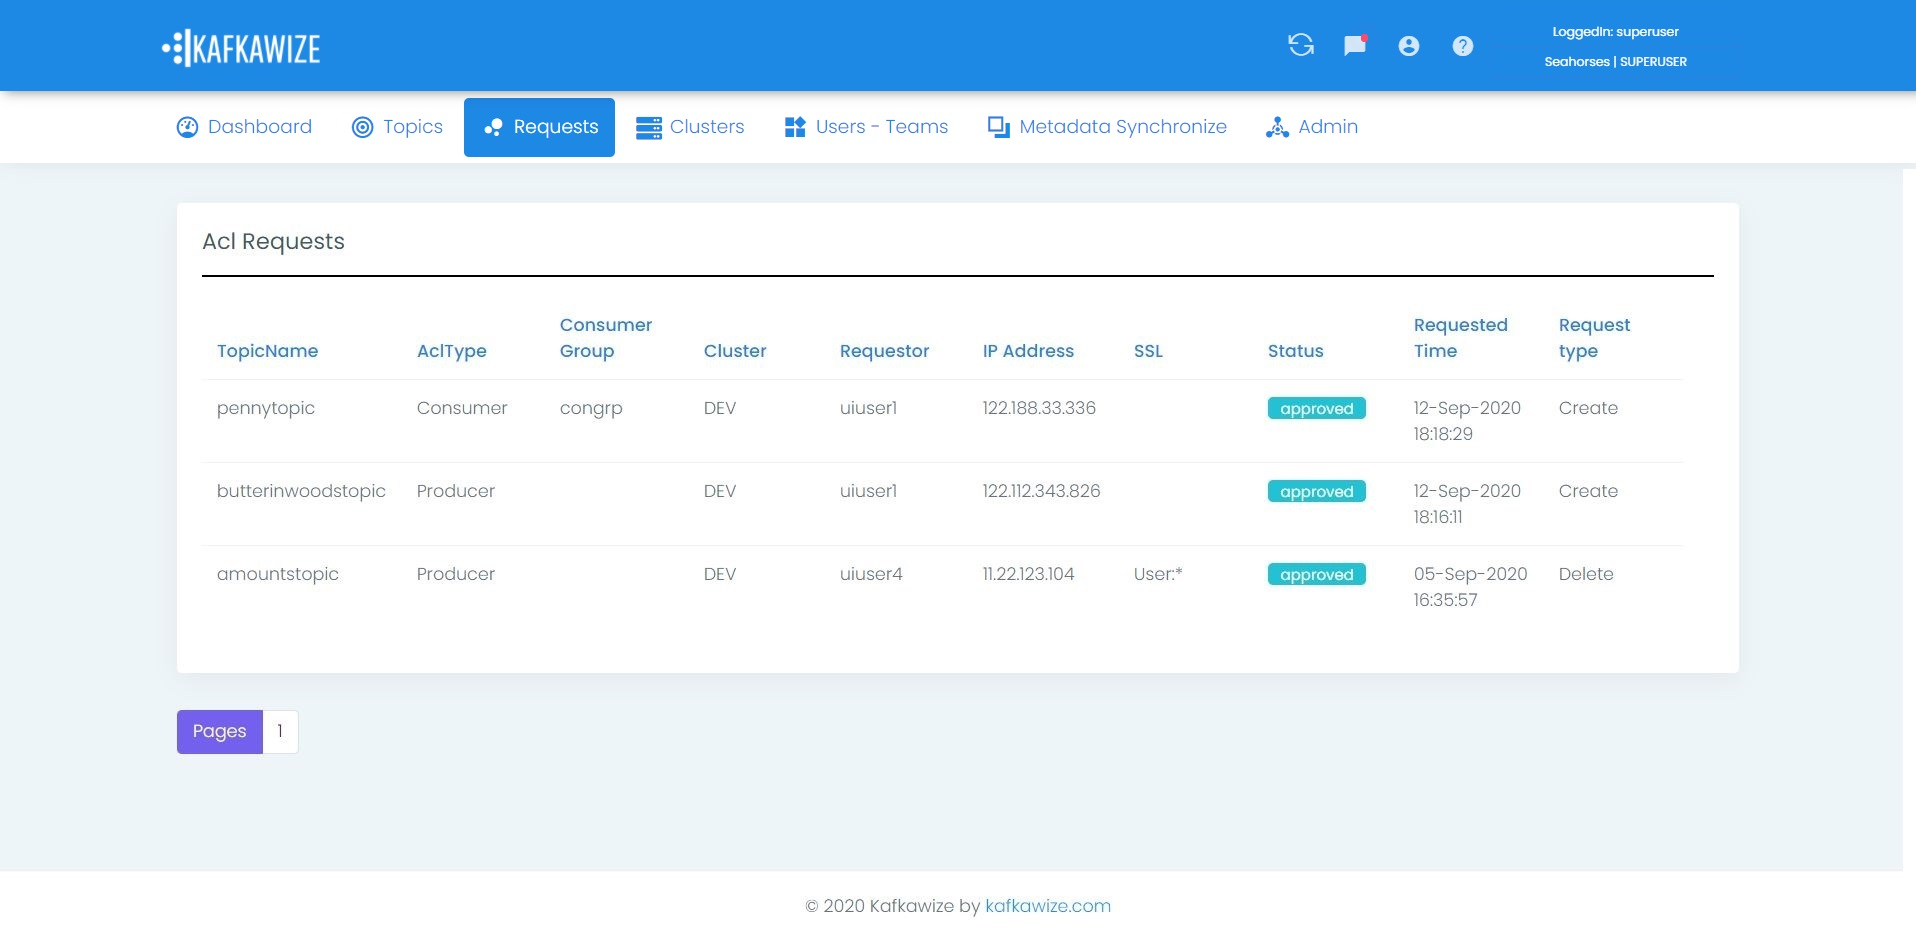
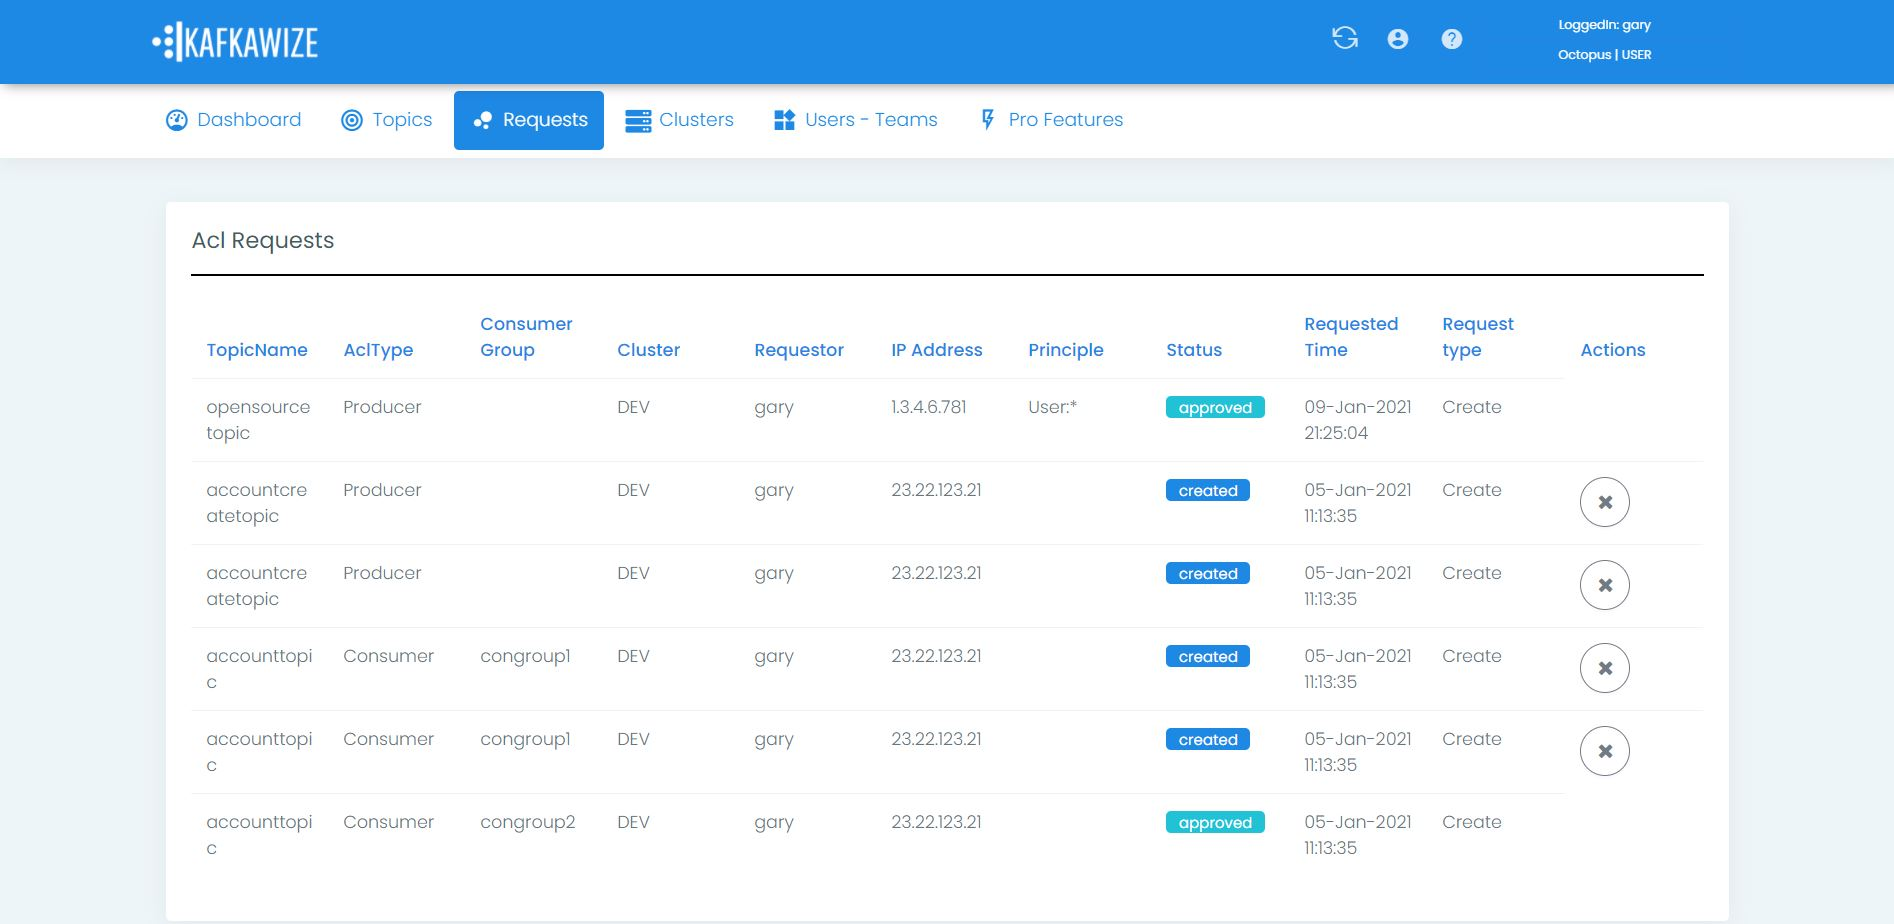
Updating actions in UI for couple of screens

diff --git a/src/main/resources/templates/myAclRequests.html b/src/main/resources/templates/myAclRequests.html
@@ -388,18 +388,18 @@
 								<table width="100%" class="table table-hover color-table success-table"  style="table-layout:fixed;">
 									<thead><tr>
 
-										<th width="10%">TopicName</th>
-										<th width="10%">AclType</th>
-										<th width="10%">Consumer Group</th>
-										<th width="10%">Cluster</th>
-										<th width="10%">Requestor</th>
-										<th width="10%">IP Address</th>
-										<th width="10%">Principle</th>
-										<th width="10%">Status</th>
+										<th>TopicName</th>
+										<th>AclType</th>
+										<th>Consumer Group</th>
+										<th>Cluster</th>
+										<th>Requestor</th>
+										<th>IP Address</th>
+										<th>Principle</th>
+										<th>Status</th>
 										<!--<th>Requested Time</th>-->
-										<th width="10%">Requested Time</th>
-										<th width="10%">Request type</th>
-										<th></th>
+										<th>Requested Time</th>
+										<th>Request type</th>
+										<th>Actions</th>
 									</tr>
 									</thead>
 									<tbody>

diff --git a/src/main/resources/templates/envs.html b/src/main/resources/templates/envs.html
@@ -387,7 +387,7 @@
 							</table>
 							<hr size="1" color="black">
 							<div>
-								<table width="100%" class="table color-table success-table">
+								<table width="100%" class="table table-hover color-table success-table">
 									<thead><tr>
 										<th>Cluster</th>
 										<th>Bootstrap servers</th>
@@ -441,10 +441,10 @@
 							</table>
 							<hr size="1" color="black">
 							<div>
-								<table class="table color-table success-table">
+								<table class="table table-hover color-table success-table">
 									<thead><tr>
 										<th width="10%">Cluster</th>
-										<th>Host</th>
+										<th>Schema Registry servers</th>
 										<th>Protocol</th>
 										<th>Type</th>
 										<th>Delete</th>

diff --git a/src/main/resources/templates/addEnv.html b/src/main/resources/templates/addEnv.html
@@ -414,7 +414,7 @@
 										<div class="col-md-6">
 											<div class="form-group">
 												<label>Bootstrap servers</label>
-												<input type="text" class="form-control" required ng-model="addNewEnv.host" placeholder="devams.cmp.net">
+												<input type="text" class="form-control" required ng-model="addNewEnv.host" placeholder="devams.cmp.net:9092,devute.cmp.net:9092">
 											</div>
 										</div>
 										<!--/span-->

diff --git a/src/main/resources/templates/myTopicRequests.html b/src/main/resources/templates/myTopicRequests.html
@@ -357,7 +357,7 @@
 										<th>Status</th>
 										<!--<th>Requested Time</th>-->
 										<th>Updated Time</th>
-										<th></th>
+										<th>Actions</th>
 									</tr>
 									</thead>
 									<tbody>
